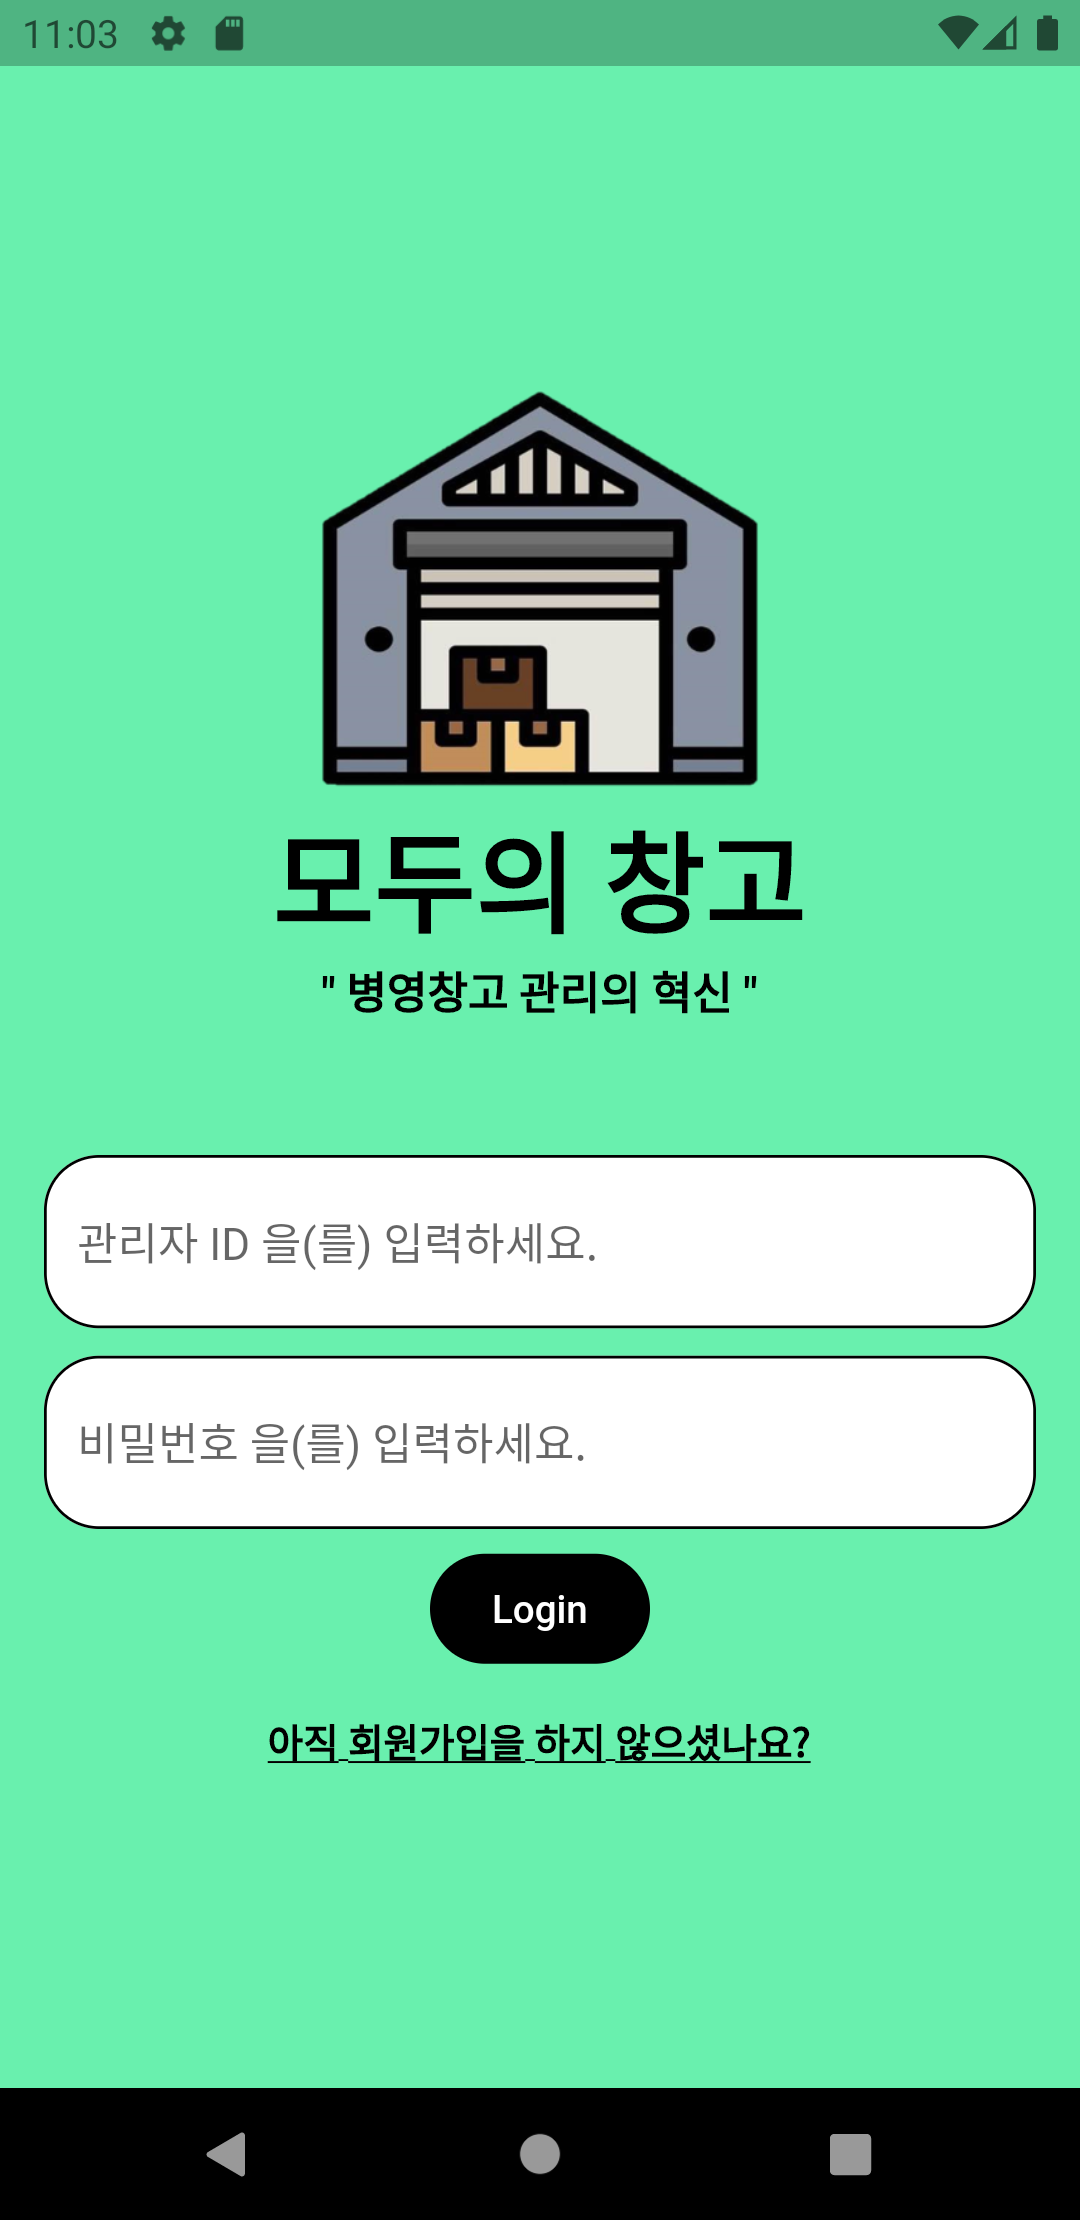
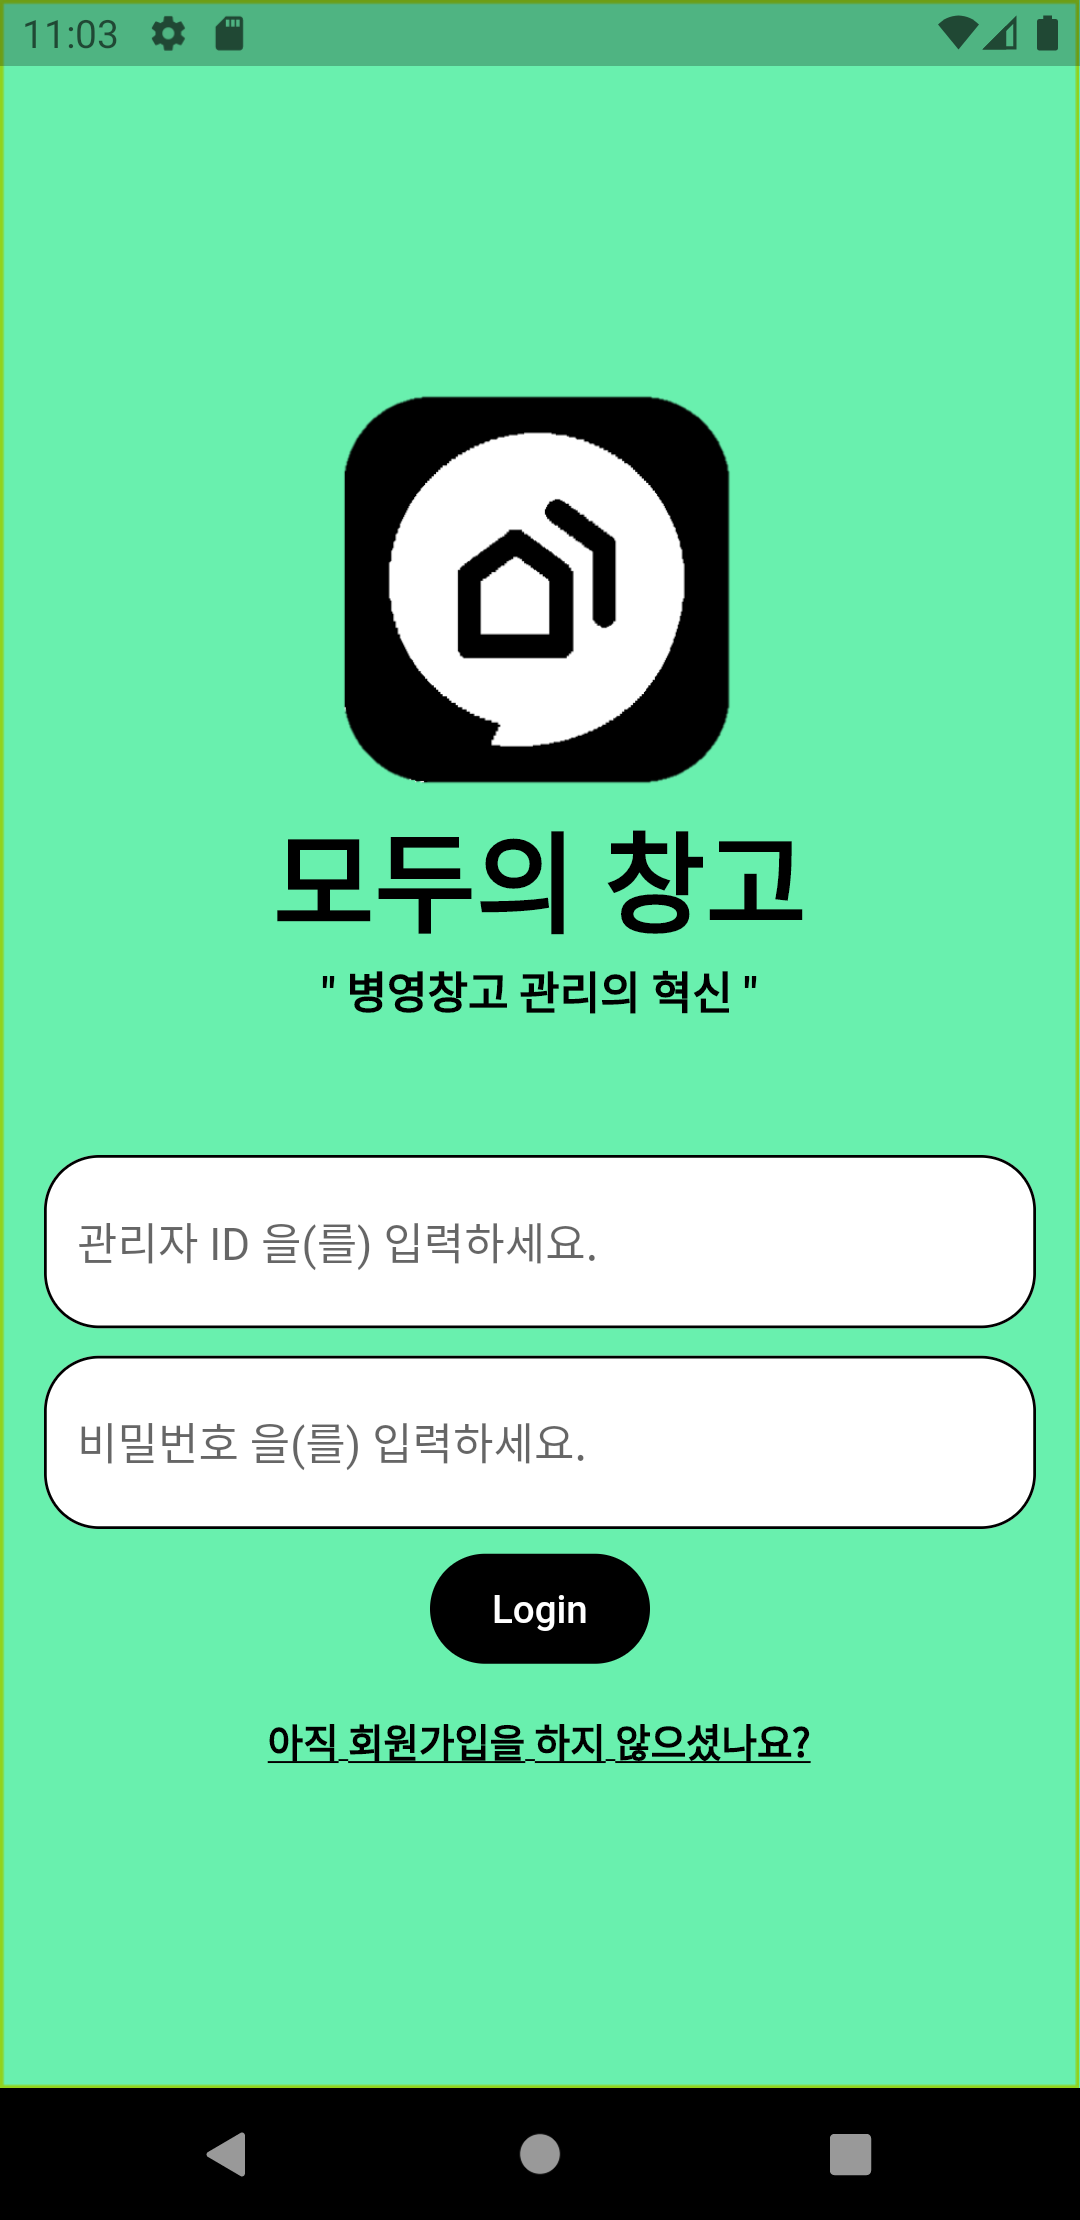
README updated

Changed region(s): [[0.275, 0.1554, 0.7028, 0.373], [0.9778, 0.0, 1.0, 0.9324], [0.0, 0.0, 0.0306, 0.9324]]

diff --git a/README.md b/README.md
@@ -77,7 +77,7 @@
 			</td>
 			<td width="35%">
 	   			<h4 align="center">
-		   		<a href="https://raw.githubusercontent.com/realisshomyang/readmetest/main/image/ui/app_viewwarehouse.png?token=ATMLCXZPAHJM3H7VMVFUOM3BNWCC2"><img src="/image/ui/app_login.png" width="75%" height="75%"></a><br><br>부대 내 창고 관리 및 확인 앱</h4></td>
+		   		<a href="https://raw.githubusercontent.com/realisshomyang/readmetest/main/image/ui/app_viewwarehouse.png?token=ATMLCXZPAHJM3H7VMVFUOM3BNWCC2"><img src="/image/ui/app_storages_page.png" width="75%" height="75%"></a><br><br>부대 내 창고 관리 및 확인 앱</h4></td>
 		</tr>
 </tbody>
 </table>
@@ -99,7 +99,7 @@
 			</td>
 			<td width="35%">
 	   			<h4 align="center">
-		   		<a href="https://raw.githubusercontent.com/realisshomyang/readmetest/main/image/ui/app_login.png?token=ATMLCXZPAHJM3H7VMVFUOM3BNWCC2"><img src="/image/ui/app_login.png" width="75%" height="75%"></a><br><br>창고 내 물품 재고확인 앱</h4></td>
+		   		<a href="https://raw.githubusercontent.com/realisshomyang/readmetest/main/image/ui/app_login.png?token=ATMLCXZPAHJM3H7VMVFUOM3BNWCC2"><img src="/image/ui/app_storages_detail_page.png" width="75%" height="75%"></a><br><br>창고 내 물품 재고확인 앱</h4></td>
 		</tr>
 </tbody>
 </table>
@@ -121,7 +121,7 @@
 			</td>
 			<td width="35%">
 	   			<h4 align="center">
-		   		<a href="https://raw.githubusercontent.com/realisshomyang/readmetest/main/image/ui/app_login.png?token=ATMLCXZPAHJM3H7VMVFUOM3BNWCC2"><img src="/image/ui/app_login.png" width="75%" height="75%"></a><br><br>로그인 페이지 앱</h4></td>
+		   		<a href="https://raw.githubusercontent.com/realisshomyang/readmetest/main/image/ui/app_login.png?token=ATMLCXZPAHJM3H7VMVFUOM3BNWCC2"><img src="/image/ui/app_history.png" width="75%" height="75%"></a><br><br>로그인 페이지 앱</h4></td>
 		</tr>
 </tbody>
 </table>
